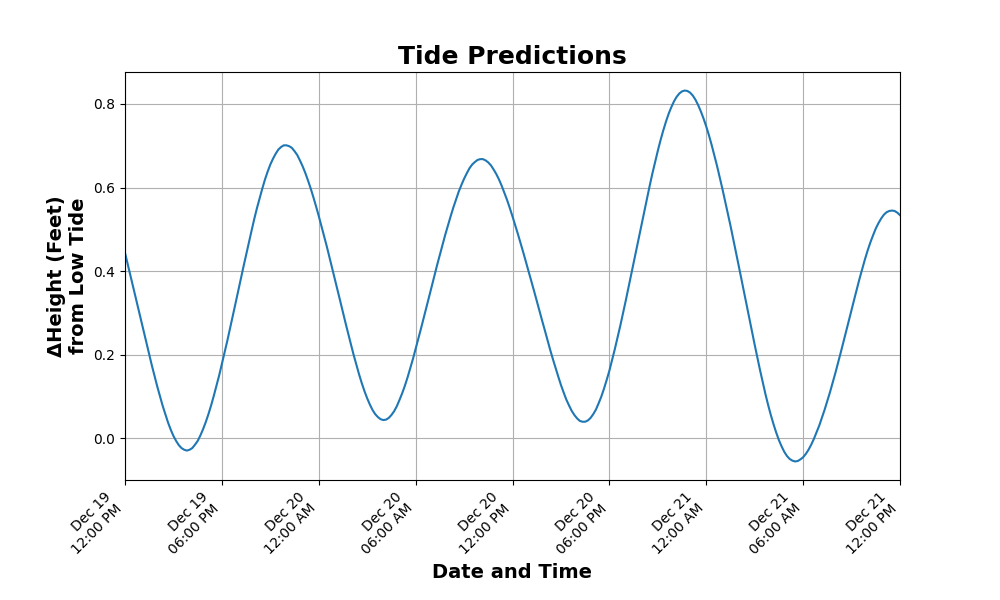
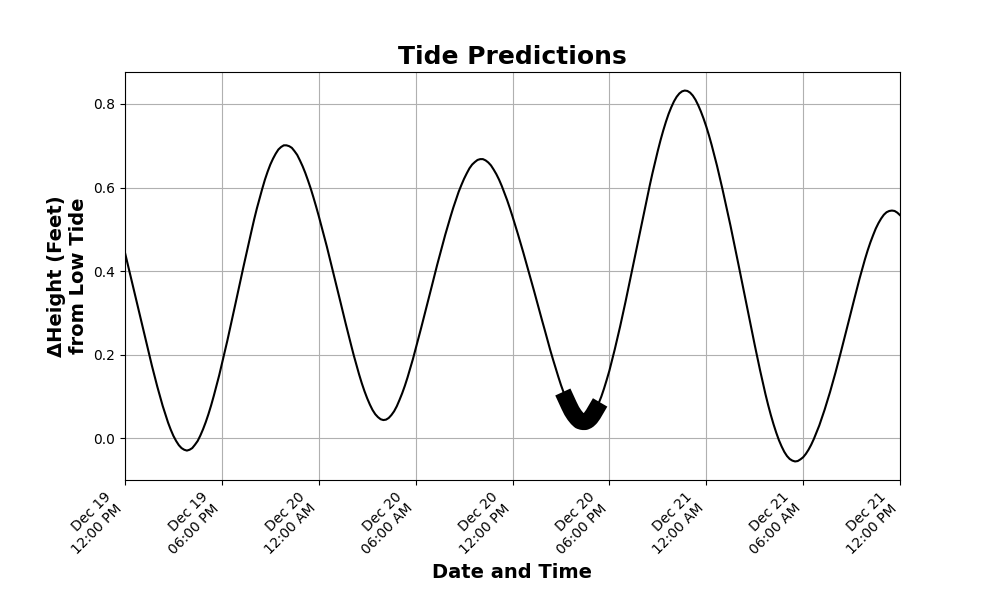
Start using git instead of iterative "drawing tests"

diff --git a/7-image_draw_tests.py b/7-image_draw_tests.py
@@ -1,0 +1,139 @@
+import matplotlib.pyplot as plt
+import matplotlib.dates as mdates
+from datetime import datetime, timedelta
+import requests
+from PIL import Image
+import csv
+import ephem
+
+def get_sunrise_sunset(decimal_latitude, decimal_longitude, date):
+    # Create an observer object for the given coordinates
+    observer = ephem.Observer()
+    observer.lat = str(decimal_latitude)
+    observer.lon = str(decimal_longitude)
+
+    # Set the date for which to compute sunrise and sunset times
+    observer.date = date
+
+    # Compute sunrise and sunset times
+    sunrise = observer.previous_rising(ephem.Sun())
+    sunset = observer.next_setting(ephem.Sun())
+
+    # Convert the times to Python datetime objects
+    sunrise_datetime = datetime.utcfromtimestamp(sunrise)
+    sunset_datetime = datetime.utcfromtimestamp(sunset)
+
+    return sunrise_datetime, sunset_datetime
+
+def get_station_coordinates(station_id):
+    with open("stations.csv", newline="", encoding="utf-8") as csvfile:
+        reader = csv.DictReader(csvfile)
+        for row in reader:
+            if row["Station ID"] == station_id:
+                city = row["City"]
+                state = row["State"]
+                decimal_latitude = float(row["decimal_latitude"])
+                decimal_longitude = float(row["decimal_longitude"])
+                return city, state, decimal_latitude, decimal_longitude
+
+# Modify the plot_tide_predictions function to use get_station_coordinates
+def plot_tide_predictions(station_id):
+    city, state, decimal_latitude, decimal_longitude = get_station_coordinates(station_id)
+
+    # Get sunrise and sunset times for yesterday, today, and tomorrow
+    yesterday = datetime.now() - timedelta(days=1)
+    today = datetime.now()
+    tomorrow = datetime.now() + timedelta(days=1)
+
+    yesterday_sunrise, yesterday_sunset = get_sunrise_sunset(decimal_latitude, decimal_longitude, yesterday)
+    today_sunrise, today_sunset = get_sunrise_sunset(decimal_latitude, decimal_longitude, today)
+    tomorrow_sunrise, tomorrow_sunset = get_sunrise_sunset(decimal_latitude, decimal_longitude, tomorrow)
+
+    # Print or use the sunrise and sunset times as needed
+    print(f"Sunrise at {city}, {state} (Yesterday): {yesterday_sunrise}")
+    print(f"Sunset at {city}, {state} (Yesterday): {yesterday_sunset}")
+
+    print(f"Sunrise at {city}, {state} (Today): {today_sunrise}")
+    print(f"Sunset at {city}, {state} (Today): {today_sunset}")
+
+    print(f"Sunrise at {city}, {state} (Tomorrow): {tomorrow_sunrise}")
+    print(f"Sunset at {city}, {state} (Tomorrow): {tomorrow_sunset}")
+    
+    print(decimal_latitude)
+    print(decimal_longitude)
+    # Get yesterday's date with time set to midnight
+    yesterday_date = datetime.now() - timedelta(days=1)
+    yesterday_date = yesterday_date.replace(hour=0, minute=0, second=0, microsecond=0)
+    yesterday_date_string = yesterday_date.strftime("%Y%m%d")
+
+    range_hours = 60
+    datum = "mllw"
+    interval_minutes = 10
+
+    # Modify the URL with yesterday's date and the station ID variable
+    url = f"https://api.tidesandcurrents.noaa.gov/api/prod/datagetter?begin_date={yesterday_date_string}&range={range_hours}&product=predictions&datum={datum}&interval={interval_minutes}&format=json&units=english&time_zone=lst_ldt&station={station_id}"
+    print("\n"+url+"\n")  # Change print statement
+
+    # Retrieve data from the URL
+    response = requests.get(url)
+    data = response.json()
+
+    # Extract time and value data
+    all_times = [datetime.strptime(entry['t'], '%Y-%m-%d %H:%M') for entry in data['predictions']]
+    all_values = [float(entry['v']) for entry in data['predictions']]
+
+    # Calculate the start time as 12 hours ago
+    start_time = yesterday_date + timedelta(hours=12)
+
+    # Filter data points that occurred after the start time
+    filtered_times = [t for t in all_times if t >= start_time]
+    filtered_values = [v for t, v in zip(all_times, all_values) if t >= start_time]
+
+    # Plotting
+    plt.figure(figsize=(10, 6))
+
+    # Plot filtered data with a black line
+    plt.plot(filtered_times, filtered_values, label='v vs t', color='black')
+
+    plt.title('Tide Predictions', fontsize=18, weight='bold')  # Larger title
+    plt.xlabel('Date and Time', fontsize=14, weight='bold')  # Bold x-axis label
+    plt.ylabel('ΔHeight (Feet)\nfrom Low Tide', fontsize=14, weight='bold')  # Changed y-axis label
+
+    # Format x-axis dates with three-letter month abbreviation, rotate, and display time
+    plt.gca().xaxis.set_major_locator(mdates.HourLocator(interval=6))  # Show every 6 hours
+    plt.gca().xaxis.set_major_formatter(mdates.DateFormatter('%b %d\n%I:%M %p'))
+    plt.gcf().autofmt_xdate(rotation=45)  # Rotate x-axis labels for better visibility
+
+    # Set x-axis range to start at 12:00 PM
+    plt.xlim(start_time, filtered_times[-1])
+
+    # Overlay additional data points onto the existing plot with a black, solid line and linewidth 12
+    now = datetime.now()
+    two_hours_later = now + timedelta(hours=2)
+    additional_times = [t for t in all_times if now <= t <= two_hours_later]
+    additional_values = [v for t, v in zip(all_times, all_values) if now <= t <= two_hours_later]
+
+    plt.plot(additional_times, additional_values, label='Additional Data', color='black', linewidth=12)
+
+    plt.grid(True)
+
+    # Save the plot as an image
+    plt.savefig("plot_image.png")
+
+    # Show the plot (optional)
+    # plt.show()
+
+    # Open the saved image using PIL
+    img = Image.open("plot_image.png")
+    # Display the image (optional)
+    img.show()
+
+    # Save the image with a new filename if needed
+    # img.save("saved_plot_image.png")
+
+    img.close()
+
+# Call the function with a specific station_id when the module is run directly
+if __name__ == "__main__":
+    station_id = "8725520"
+    plot_tide_predictions(station_id)

diff --git a/6-image_draw_tests - scatter plot.py b/6-image_draw_tests - scatter plot.py
@@ -1,0 +1,82 @@
+import matplotlib.pyplot as plt
+import matplotlib.dates as mdates
+from datetime import datetime, timedelta
+import requests
+from PIL import Image
+
+def plot_tide_predictions():
+    # Get yesterday's date with time set to midnight
+    yesterday_date = datetime.now() - timedelta(days=1)
+    yesterday_date = yesterday_date.replace(hour=0, minute=0, second=0, microsecond=0)
+    yesterday_date_string = yesterday_date.strftime("%Y%m%d")
+
+    range_hours = 60
+    station_id = "8725520"
+    datum = "mllw"
+    interval_minutes = 10
+
+    # Modify the URL with yesterday's date and the station ID variable
+    url = f"https://api.tidesandcurrents.noaa.gov/api/prod/datagetter?begin_date={yesterday_date_string}&range={range_hours}&product=predictions&datum={datum}&interval={interval_minutes}&format=json&units=english&time_zone=lst_ldt&station={station_id}"
+    print("\n"+url+"\n")  # Change print statement
+
+    # Retrieve data from the URL
+    response = requests.get(url)
+    data = response.json()
+
+    # Extract time and value data
+    all_times = [datetime.strptime(entry['t'], '%Y-%m-%d %H:%M') for entry in data['predictions']]
+    all_values = [float(entry['v']) for entry in data['predictions']]
+
+    # Calculate the start time as 12 hours ago
+    start_time = yesterday_date + timedelta(hours=12)
+
+    # Filter data points that occurred after the start time
+    filtered_times = [t for t in all_times if t >= start_time]
+    filtered_values = [v for t, v in zip(all_times, all_values) if t >= start_time]
+    # Plotting
+    plt.figure(figsize=(10, 6))
+
+    # Plot filtered data with small markers and a line connecting them
+    plt.plot(filtered_times, filtered_values, label='v vs t', color='black', marker='o', markersize=4, linestyle='-', linewidth=2, mec='black')
+
+    plt.title('Tide Predictions', fontsize=18, weight='bold')  # Larger title
+    plt.xlabel('Date and Time', fontsize=14, weight='bold')  # Bold x-axis label
+    plt.ylabel('ΔHeight (Feet)\nfrom Low Tide', fontsize=14, weight='bold')  # Changed y-axis label
+
+    # Format x-axis dates with three-letter month abbreviation, rotate, and display time
+    plt.gca().xaxis.set_major_locator(mdates.HourLocator(interval=6))  # Show every 6 hours
+    plt.gca().xaxis.set_major_formatter(mdates.DateFormatter('%b %d\n%I:%M %p'))
+    plt.gcf().autofmt_xdate(rotation=45)  # Rotate x-axis labels for better visibility
+
+    # Set x-axis range to start at 12:00 PM
+    plt.xlim(start_time, filtered_times[-1])
+
+    # Overlay additional data points onto the existing plot with rounded markers and a line connecting them
+    now = datetime.now()
+    two_hours_later = now + timedelta(hours=2)
+    additional_times = [t for t in all_times if now <= t <= two_hours_later]
+    additional_values = [v for t, v in zip(all_times, all_values) if now <= t <= two_hours_later]
+
+    plt.plot(additional_times, additional_values, label='Additional Data', color='black', marker='o', markersize=12, linestyle='-', linewidth=2, mec='black')
+
+    plt.grid(True)
+
+    # Save the plot as an image
+    plt.savefig("plot_image.png")
+
+    # Show the plot (optional)
+    # plt.show()
+
+    # Open the saved image using PIL
+    img = Image.open("plot_image.png")
+    # Display the image (optional)
+    img.show()
+
+    # Save the image with a new filename if needed
+    # img.save("saved_plot_image.png")
+
+    img.close()
+
+# Call the function when the module is run directly
+if __name__ == "__main__":
+    plot_tide_predictions()

diff --git a/6-image_draw_tests copy.py b/6-image_draw_tests copy.py
@@ -1,0 +1,83 @@
+import matplotlib.pyplot as plt
+import matplotlib.dates as mdates
+from datetime import datetime, timedelta
+import requests
+from PIL import Image
+
+def plot_tide_predictions(station_id):
+    # Get yesterday's date with time set to midnight
+    yesterday_date = datetime.now() - timedelta(days=1)
+    yesterday_date = yesterday_date.replace(hour=0, minute=0, second=0, microsecond=0)
+    yesterday_date_string = yesterday_date.strftime("%Y%m%d")
+
+    range_hours = 60
+    datum = "mllw"
+    interval_minutes = 10
+
+    # Modify the URL with yesterday's date and the station ID variable
+    url = f"https://api.tidesandcurrents.noaa.gov/api/prod/datagetter?begin_date={yesterday_date_string}&range={range_hours}&product=predictions&datum={datum}&interval={interval_minutes}&format=json&units=english&time_zone=lst_ldt&station={station_id}"
+    print("\n"+url+"\n")  # Change print statement
+
+    # Retrieve data from the URL
+    response = requests.get(url)
+    data = response.json()
+
+    # Extract time and value data
+    all_times = [datetime.strptime(entry['t'], '%Y-%m-%d %H:%M') for entry in data['predictions']]
+    all_values = [float(entry['v']) for entry in data['predictions']]
+
+    # Calculate the start time as 12 hours ago
+    start_time = yesterday_date + timedelta(hours=12)
+
+    # Filter data points that occurred after the start time
+    filtered_times = [t for t in all_times if t >= start_time]
+    filtered_values = [v for t, v in zip(all_times, all_values) if t >= start_time]
+
+    # Plotting
+    plt.figure(figsize=(10, 6))
+
+    # Plot filtered data with a black line
+    plt.plot(filtered_times, filtered_values, label='v vs t', color='black')
+
+    plt.title('Tide Predictions', fontsize=18, weight='bold')  # Larger title
+    plt.xlabel('Date and Time', fontsize=14, weight='bold')  # Bold x-axis label
+    plt.ylabel('ΔHeight (Feet)\nfrom Low Tide', fontsize=14, weight='bold')  # Changed y-axis label
+
+    # Format x-axis dates with three-letter month abbreviation, rotate, and display time
+    plt.gca().xaxis.set_major_locator(mdates.HourLocator(interval=6))  # Show every 6 hours
+    plt.gca().xaxis.set_major_formatter(mdates.DateFormatter('%b %d\n%I:%M %p'))
+    plt.gcf().autofmt_xdate(rotation=45)  # Rotate x-axis labels for better visibility
+
+    # Set x-axis range to start at 12:00 PM
+    plt.xlim(start_time, filtered_times[-1])
+
+    # Overlay additional data points onto the existing plot with a black, solid line and linewidth 12
+    now = datetime.now()
+    two_hours_later = now + timedelta(hours=2)
+    additional_times = [t for t in all_times if now <= t <= two_hours_later]
+    additional_values = [v for t, v in zip(all_times, all_values) if now <= t <= two_hours_later]
+
+    plt.plot(additional_times, additional_values, label='Additional Data', color='black', linewidth=12)
+
+    plt.grid(True)
+
+    # Save the plot as an image
+    plt.savefig("plot_image.png")
+
+    # Show the plot (optional)
+    # plt.show()
+
+    # Open the saved image using PIL
+    img = Image.open("plot_image.png")
+    # Display the image (optional)
+    img.show()
+
+    # Save the image with a new filename if needed
+    # img.save("saved_plot_image.png")
+
+    img.close()
+
+# Call the function with a specific station_id when the module is run directly
+if __name__ == "__main__":
+    station_id = "8725520"
+    plot_tide_predictions(station_id)
